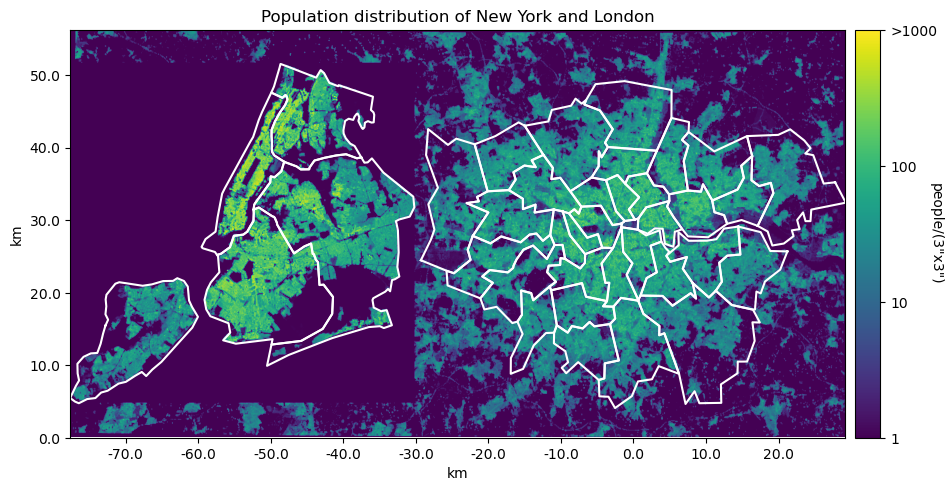
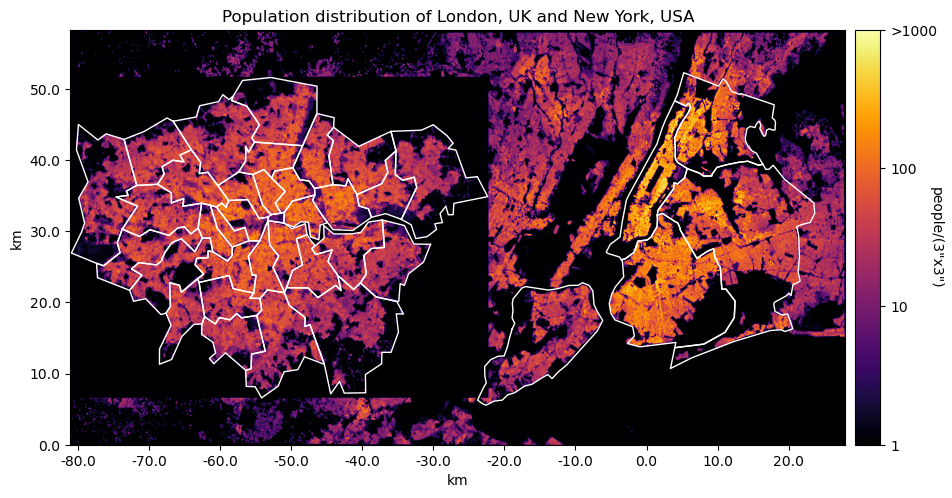
update readme, new images made with the recent updates

diff --git a/readme.md b/readme.md
@@ -3,7 +3,7 @@
 Population densities:
 
 <p align="center">
-  <img src="images/all_densities_annotated.png"  
+  <img src="images/group_densities.png"  
   alt="annotated population densities of several cities" style="padding:5px"/>
 </p>
 
@@ -65,10 +65,10 @@ jupyter notebook
 # Data Sources
 
 Country and administrative boundaries from https://www.geoboundaries.org/. 
-Runfola, D. et al. (2020) geoBoundaries: A global database of political administrative boundaries. PLoS ONE 15(4): e0231866. https://doi.org/10.1371/journal.pone.0231866
+> Runfola, D. et al. (2020) geoBoundaries: A global database of political administrative boundaries. PLoS ONE 15(4): e0231866. https://doi.org/10.1371/journal.pone.0231866
 
-Country populations from https://hub.worldpop.org/.
-WorldPop (www.worldpop.org - School of Geography and Environmental Science, University of Southampton;
+Country populations from https://hub.worldpop.org/geodata/listing?id=78
+> WorldPop (www.worldpop.org - School of Geography and Environmental Science, University of Southampton;
 Department of Geography and Geosciences, University of Louisville; Departement de Geographie, Universite
 de Namur) and Center for International Earth Science Information Network (CIESIN), Columbia University
 (2018). Global High Resolution Population Denominators Project - Funded by The Bill and Melinda Gates
